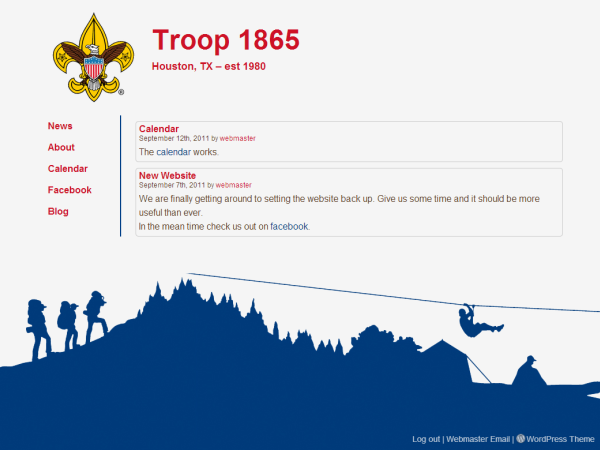
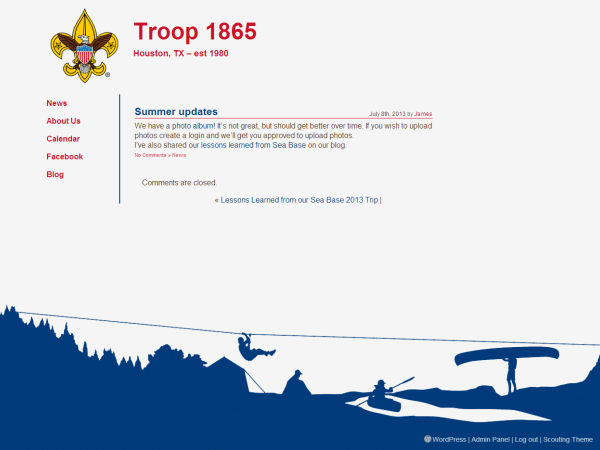
Updated theme info and screenshot.

diff --git a/style.css b/style.css
@@ -4,7 +4,7 @@
     Author: James Pryor
     Author URI: http://jamespryor.net
     Description: A simple and clean Scouting theme.
-    Version: 1.something
+    Version: 1.1
     License: Universal Forfeit License (UFL)
     LicenseURL: http://geekwagon.net/ufl/license.txt
 */
